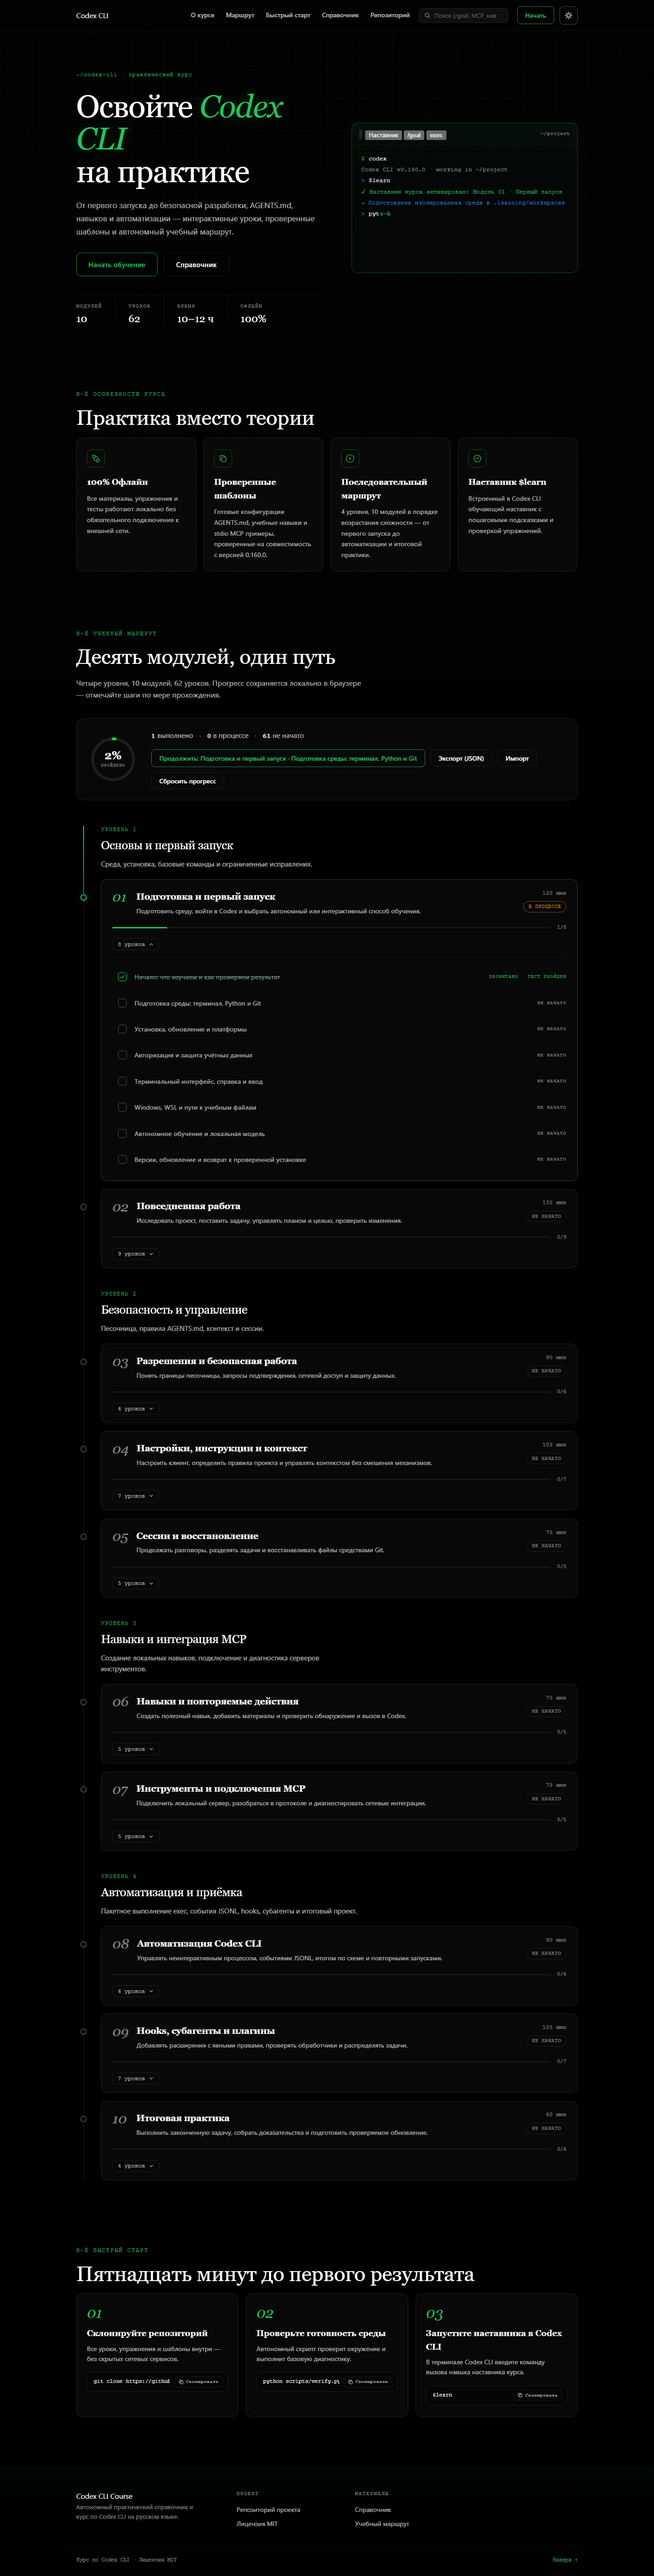
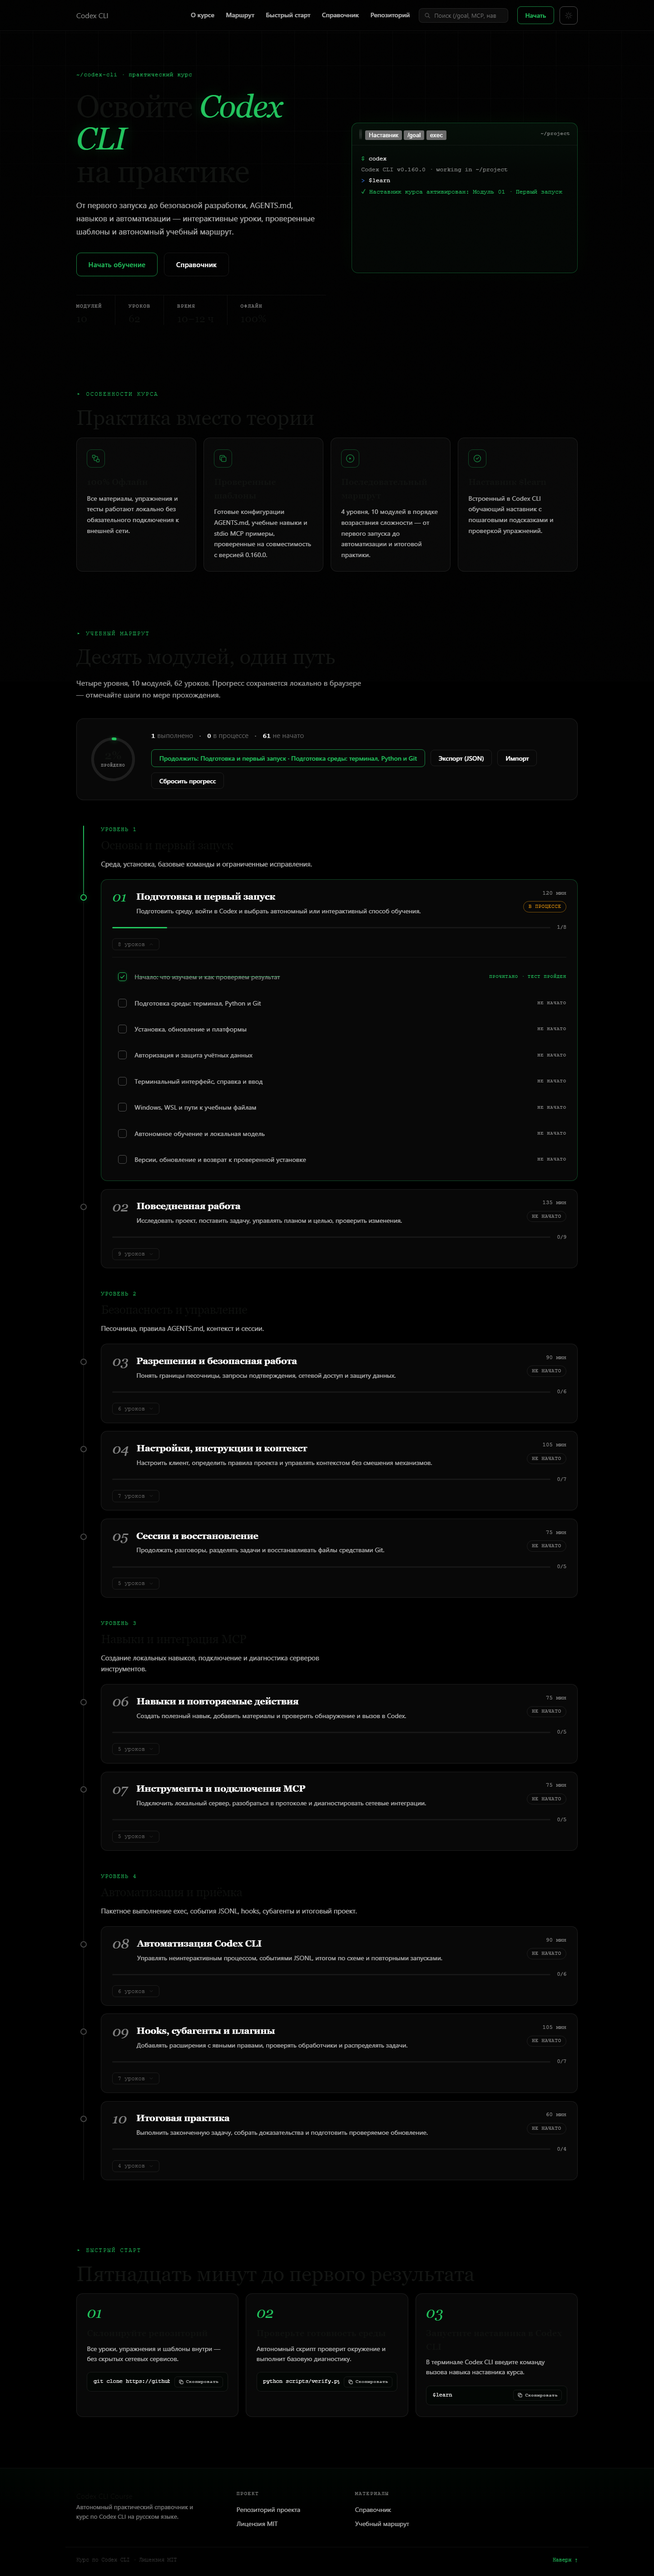
fix(style): replace corrupted cp1251 mojibake characters with css unicode escapes

diff --git a/scripts/website_templates/landing.css b/scripts/website_templates/landing.css
@@ -30,13 +30,13 @@ html:not(.dark):not([data-theme="dark"])::-webkit-scrollbar-thumb {
 }
 
 /* =============================================================================
-   codex-howto landing вЂ” "Terminal Luxe" (dark) / "Ivory" (light)
+   codex-howto landing — "Terminal Luxe" (dark) / "Ivory" (light)
    All colors flow through CSS custom properties: `:root` holds the light
    tokens, `html.dark` overrides them with the Terminal Luxe palette, and the
    no-JS media query mirrors `html.dark` (the inline script removes .no-js
    when JS runs, so a no-JS visitor on a dark OS still gets dark colors).
-   Emerald #22C55E stays decorative in both themes вЂ” lines, borders, the
-   subway track, the progress ring, checkmarks вЂ” never a background fill.
+   Emerald #22C55E stays decorative in both themes — lines, borders, the
+   subway track, the progress ring, checkmarks — never a background fill.
    Green *text* uses --green (#15803D in light for WCAG AA contrast).
    ============================================================================= */
 
@@ -76,7 +76,7 @@ html:not(.dark):not([data-theme="dark"])::-webkit-scrollbar-thumb {
     0 24px 70px rgba(0, 0, 0, 0.65),
     0 0 60px rgba(34, 197, 94, 0.07);
 
-  /* ---------- Semantic tokens вЂ” "Ivory" light defaults ----------
+  /* ---------- Semantic tokens — "Ivory" light defaults ----------
      Warm near-white canvas, black text, black-at-low-alpha borders, soft
      shadows for depth instead of glows. */
   --bg: #fbfaf7;
@@ -114,7 +114,7 @@ html:not(.dark):not([data-theme="dark"])::-webkit-scrollbar-thumb {
 
   /* ---------- Theme-independent emerald ----------
      #22C55E family for lines, borders, the subway track, the progress ring
-     stroke and checkmarks вЂ” identical in both themes. */
+     stroke and checkmarks — identical in both themes. */
   --green-vivid: #22c55e;
   --green-soft: rgba(34, 197, 94, 0.7);
   --green-line: rgba(34, 197, 94, 0.35);
@@ -730,7 +730,7 @@ html.dark .theme-toggle .ti-moon, html[data-theme="dark"] .theme-toggle .ti-moon
 }
 
 /* Cross-fade colors for ~200ms while the theme flips. The class is added
-   by JS on toggle only вЂ” never on first paint. */
+   by JS on toggle only — never on first paint. */
 html.theme-anim body,
 html.theme-anim body * {
   transition:
@@ -924,7 +924,7 @@ html.theme-anim body * {
 
 .t-tt.t-typing::after,
 .t-line.t-caret .t-tt::after {
-  content: "в–Њ";
+  content: "\258c";
   margin-left: 1px;
   color: var(--chip-green);
   animation: caret-blink 1.05s steps(1) infinite;
@@ -962,7 +962,7 @@ html.theme-anim body * {
 }
 
 .kicker::before {
-  content: "в–ё ";
+  content: "\25b8\20";
 }
 
 .section-title {
@@ -2015,7 +2015,7 @@ html.theme-anim body * {
   }
 
   .versus-row .v-docs::before {
-    content: "Docs В· ";
+    content: "Docs \00b7 ";
     font-family: var(--font-mono);
     font-size: 0.68rem;
     text-transform: uppercase;
@@ -2024,7 +2024,7 @@ html.theme-anim body * {
   }
 
   .versus-row .v-guide::before {
-    content: "Guide В· ";
+    content: "Guide \00b7 ";
     position: static;
     width: auto;
     background: none;
